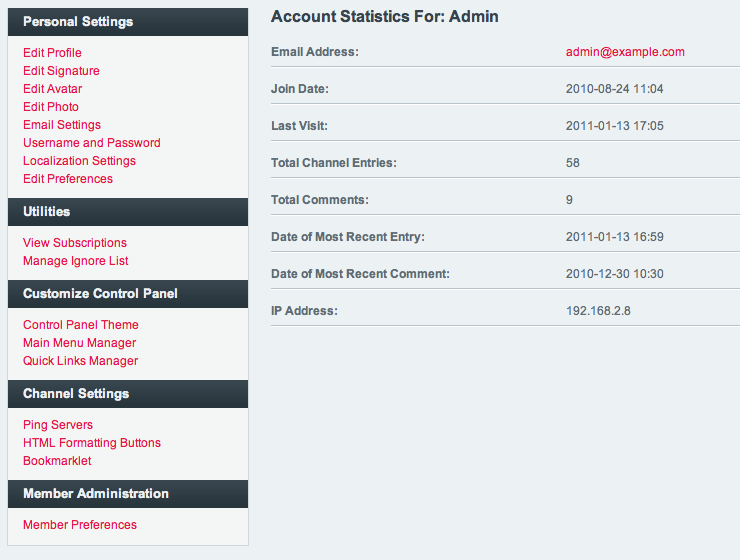
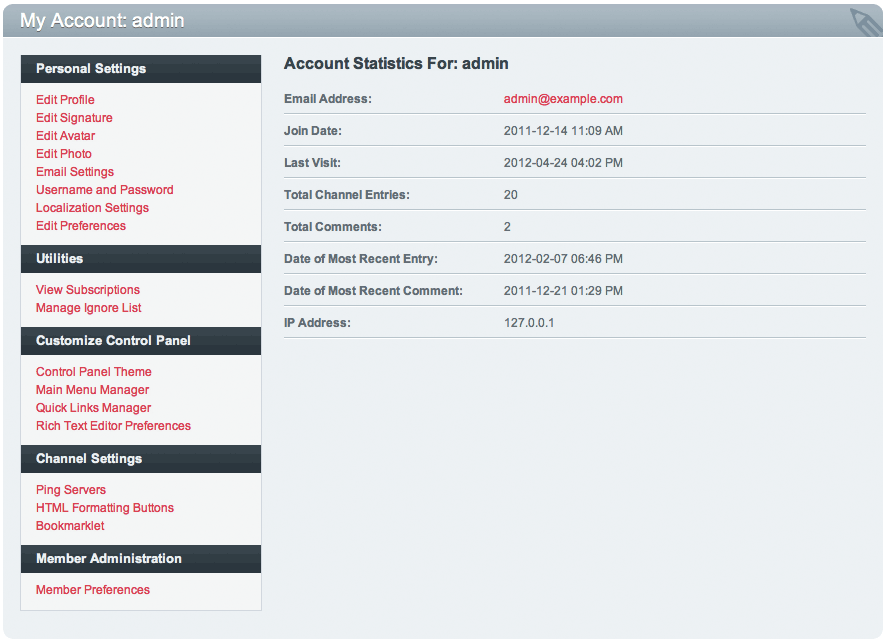
Documenting the RTE MCP index page, referencing the RTE as required in various other locations, and updating screenshots

diff --git a/source/modules/rte/control_panel/index.rst b/source/modules/rte/control_panel/index.rst
@@ -1,0 +1,93 @@
+#####################################
+Rich Text Editor Module Control Panel
+#####################################
+
+.. rst-class:: cp-path
+
+**Control Panel Location:** :menuselection:`Add-Ons --> Modules --> Rich Text Editor`
+
+This page allows you to configure ExpressionEngine's built-in Rich Text Editor (RTE).
+
+
+.. contents::
+   :local:
+   :depth: 1
+
+
+*******************
+General Preferences
+*******************
+
+Enable the Rich Text Editor
+===========================
+
+If "Yes", the Rich Text Editor will appear on any Channel Fields whose
+:ref:`channel-field-enable-rte` preference is enabled. If "No", the Rich
+Text Editor will not appear regardless of whether a Channel Field's
+:ref:`channel-field-enable-rte` preference is enabled.
+
+.. note:: If using the :doc:`/cp/sites/index`, this preference is per-site.
+
+.. _rte-mcp-default-toolset:
+
+Default Toolset
+===============
+
+Determines which Toolset will be shown for any member that has not created their
+own Toolset using the :ref:`my-account-rte-prefs` page under
+:doc:`/cp/my_account/index`.
+
+.. note:: If using the :doc:`/cp/sites/index`, this preference is per-site.
+
+********
+Toolsets
+********
+
+This section allows you to create, edit, enable, disable and delete Toolsets.
+Each Toolset listed will be available (unless it is disabled) to all members
+of your ExpressionEngine installation, even across :doc:`/cp/sites/index` sites.
+
+Creating a Toolset
+==================
+
+- Click the **Create a New Toolset** button and the Toolset Editor will appear.
+- Enter a **Toolset Name**.
+- Drag and drop the desired Tools from the **Available Tools** box into the
+  **This Toolset** box. You can move multiple Tools at once by clicking on
+  each Tool to highlight it, then dragging one of the highlighted tools.
+- Click **Submit** to save your changes.
+
+Editing a Toolset
+=================
+
+- Click a Toolset's name to open the Toolset Editor.
+- Modify the **Toolset Name** if desired.
+- Drag and drop Tools to and from the **Available Tools** or **This Toolset** box
+  as desired. You can move multiple Tools at once by clicking on each Tool to
+  highlight it, then dragging one of the highlighted tools.
+- Click **Submit** to save your changes.
+
+Enabling and Disabling Toolsets
+===============================
+
+To enable or disable a Toolset, click the desired action under the **Status**
+column.
+
+A disabled Toolset will not appear as a choice to members, but can still be 
+referred to via its ID. This is useful in combination with SafeCracker's
+:ref:`safecracker-rte-selector` and :ref:`safecracker-rte-toolset-id` parameters,
+for example.
+
+Deleting a Toolset
+==================
+
+Simply click the **Delete** link for the desired Toolset.
+
+*****
+Tools
+*****
+
+This section lists the Tools that are currently installed and allows you to enable
+or disable them. Disabled Tools will not appear as part of any Toolset.
+
+See :doc:`/development/rte_tools` for information on developing your own Tools.

diff --git a/source/cp/my_account/index.rst b/source/cp/my_account/index.rst
@@ -81,8 +81,8 @@ Each user may independently choose which "theme" they desire to use when
 viewing the Control Panel. This page allows them to set that preference
 from among the available themes.
 
-Tab Manager
-~~~~~~~~~~~
+Main Menu Manager
+~~~~~~~~~~~~~~~~~
 
 This page lets you add custom own tabs to the main navigation of the
 Control Panel. The tabs you add are viewable only by this user. To add a
@@ -90,13 +90,20 @@ new tab, first visit the destination page, then click the Add Tab link
 at the top right of the page. In this section you can manage or remove
 any tabs you have created.
 
+Quick Links Manager
+~~~~~~~~~~~~~~~~~~~
+
+Use this page to add personal links to the control panel sidebar.
+These links will be visible only to you.
+
+.. _my-account-rte-prefs:
+
 Rich Text Editor Preferences
 ~~~~~~~~~~~~~~~~~~~~~~~~~~~~
 
-If the Rich Text Editor Module is enabled, this page lets you enable or
-disable rich text editing for your account. It also lets you choose which
-rich text editor toolset you'd like to use or it allows you to define 
-your own.
+This page allows you to enable or disable the Rich Text Editor for your
+account. It also lets you choose which Toolset to use, as well as
+create and edit your own Toolset.
 
 
 Channel Settings
@@ -129,24 +136,6 @@ The Bookmarklet section will allows you to create a customized
 bookmarklet, permitting you to add entries to your site while browsing
 the internet.
 
-
-Extras
-------
-
-Quick Links
-~~~~~~~~~~~
-
-Each user may specify custom "Quick Links" for themselves. These links
-appear at the top of the Control Panel along with the other static links
-such as "Control Panel Home" and "Logout".
-
-Notepad
-~~~~~~~
-
-The "Notepad" within a member's My Account area can be used to store
-personal notes, to-do lists, or whatever other information they may
-desire. It is designed to be a place that the user may store some
-information that they'll need later.
 
 Member Administration
 ---------------------

diff --git a/source/modules/safecracker/index.rst b/source/modules/safecracker/index.rst
@@ -354,8 +354,13 @@ This parameter will tell SafeCracker to automatically load ExpressionEngine's
 :doc:`/modules/rte/index` and apply it to the element(s) matching the jQuery
 selector you specify. Any valid jQuery selector is acceptable.
 
-You can optionally specify a particular toolset ID to use (see below).
+The Toolset shown will be either the :ref:`rte-mcp-default-toolset` or
+the member's custom toolset if they are logged in and have created one using
+the :ref:`my-account-rte-prefs` page under :doc:`/cp/my_account/index`.
 
+You can optionally force a particular toolset ID to show (see below).
+
+.. _safecracker-rte-toolset-id:
 
 rte_toolset\_id=
 ~~~~~~~~~~~~~~~~
@@ -364,10 +369,8 @@ rte_toolset\_id=
 
 	rte_toolset_id="1"
 
-The id of the toolset to use. If this parameter is not specified, the
-custom toolset of the currently logged in user will be used. If they
-do not have a custom toolset, or are not logged in, the site's Default
-Toolset will be used.
+The ID of the Rich Text Editor toolset to use. Toolset IDs are listed on the
+:doc:`/modules/rte/control_panel/index` page.
 
 safecracker\_head=
 ~~~~~~~~~~~~~~~~~~

diff --git a/source/cp/admin/channels/custom_fields_edit.rst b/source/cp/admin/channels/custom_fields_edit.rst
@@ -130,6 +130,16 @@ If you select the checkbox when you set up the field, then the new
 formatting choice will also be applied to this field for **all**
 existing entries.
 
+.. _channel-field-enable-rte:
+
+Enable Rich Text Editor
+~~~~~~~~~~~~~~~~~~~~~~~
+
+Whether or not to apply the Rich Text Editor (RTE) to this field.
+The Toolset shown will be either the :ref:`rte-mcp-default-toolset` or
+the member's custom toolset if they have created one using the
+:ref:`my-account-rte-prefs` page under :doc:`/cp/my_account/index`.
+
 Text Direction
 ~~~~~~~~~~~~~~
 

diff --git a/source/modules/rte/index.rst b/source/modules/rte/index.rst
@@ -65,3 +65,15 @@ The id of the toolset to use. If this parameter is not specified, the
 custom toolset of the currently logged in user will be used. If they
 do not have a custom toolset, or are not logged in, the site's Default
 Toolset will be used.
+
+Control Panel
+-------------
+
+See the :doc:`control_panel/index` page.
+
+.. toctree::
+	:glob:
+	:titlesonly:
+	:hidden:
+	
+	control_panel/index
